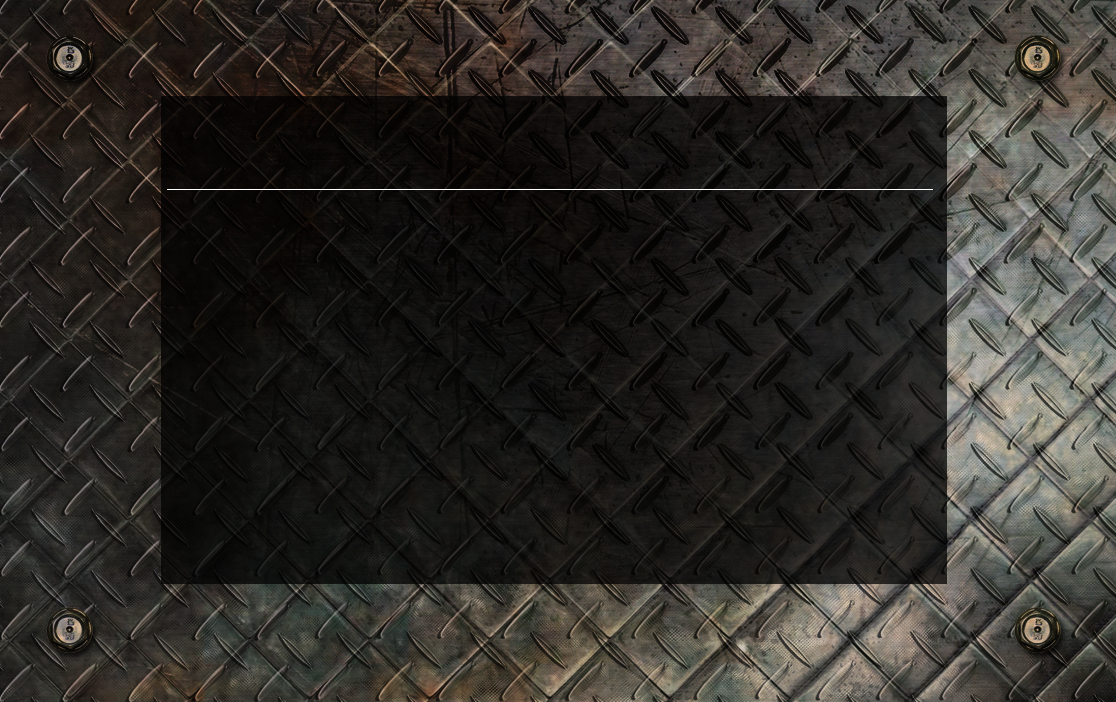
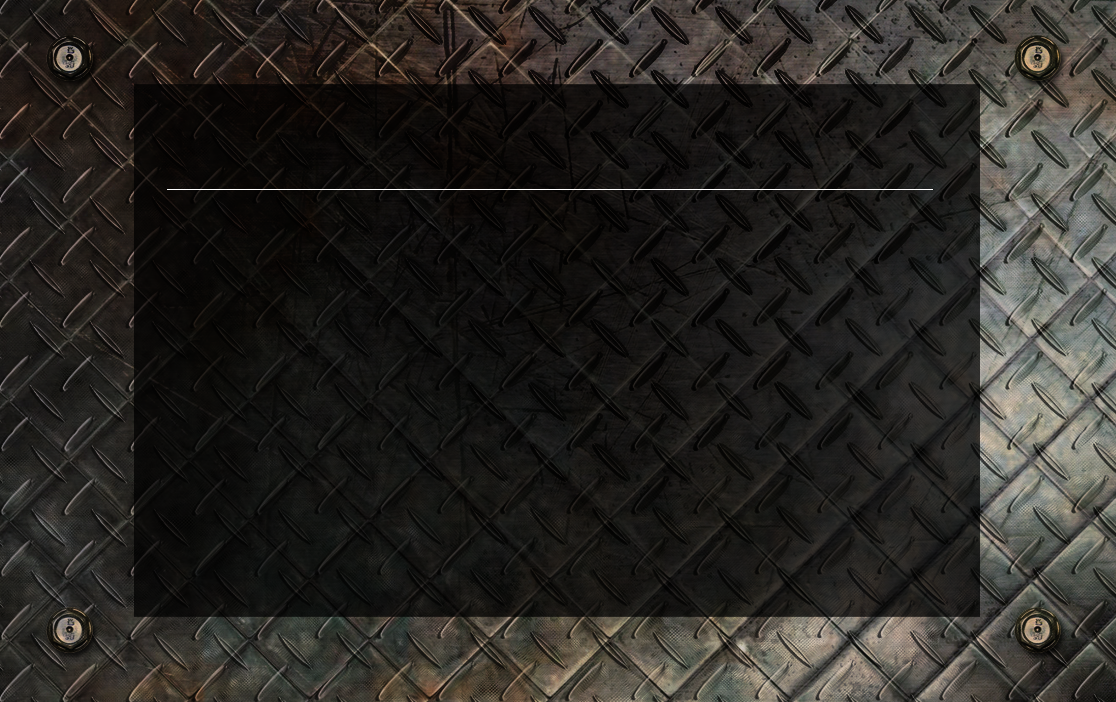
GUI Start first final

Changed region(s): [[0.1219, 0.1197, 0.8835, 0.8974]]

diff --git a/Assets/Scripts/GUI/GUIStart.cs b/Assets/Scripts/GUI/GUIStart.cs
@@ -56,33 +56,27 @@ public class GUIStart : MonoBehaviour {
 
 		Rect rectResult = new Rect (pxBorderX / 2, pxBorderY / 2, pxDesiredX, pxDesiredY);
 
+		Debug.Log (pxDesiredX);
+
+
 		GUI.BeginGroup (rectResult);
 		GUI.DrawTexture (new Rect (0, 0, rectResult.width, rectResult.height), txrBackground, ScaleMode.StretchToFill);
-		if (GUI.Button (new Rect (98, 98, rectResult.width, rectResult.height / 5), "Start Server")) {
-				}
-		GUI.EndGroup ();
-
-		/*
-		float width = Screen.width / 1.1f;
-		float height = Screen.height / 1.3f;
-
-		float dWidth = (Screen.width - width) / 2;
-		float dHeight = (Screen.height - height) / 2;
-
-		
-	
-
-		GUI.BeginGroup (new Rect (dWidth, dHeight, Screen.width, Screen.height));
-
-
-
-		GUI.DrawTexture (new Rect (0, 0, width, height), startScreen, ScaleMode.ScaleToFit, true);
-		                
-		if (GUI.Button (new Rect(Screen.width/2 -150 ,Screen.height/2 - 30,150,30), "Start")) {
-			Application.LoadLevel (levelName);
+		GUI.BeginGroup (new Rect ((pxDesiredX/2)-((pxDesiredX*0.76f)/2), (pxDesiredY/2)-((pxDesiredY*0.76f)/2), pxDesiredX*0.76f, pxDesiredY*0.76f));
+		if (GUI.Button (new Rect(0,0,pxDesiredX*0.76f, (pxDesiredY*0.76f)/5), "Start Server")) {
 		}
+		if (GUI.Button (new Rect(0,(pxDesiredY*0.76f)/5,pxDesiredX*0.76f, (pxDesiredY*0.76f)/5), "Find Host")) {
+		}
+		if (GUI.Button (new Rect(0,(2*pxDesiredY*0.76f)/5,pxDesiredX*0.76f, (pxDesiredY*0.76f)/5), "Options")) {
+		}
+		if (GUI.Button (new Rect(0,(3*pxDesiredY*0.76f)/5,pxDesiredX*0.76f, (pxDesiredY*0.76f)/5), "Credits")) {
+		}
+		if (GUI.Button (new Rect(0,(4*pxDesiredY*0.76f)/5,pxDesiredX*0.76f, (pxDesiredY*0.76f)/5), "Exit")) {
+		}
+		GUI.EndGroup ();
+
 
 		GUI.EndGroup ();
-*/
+
+
 	}
 }
